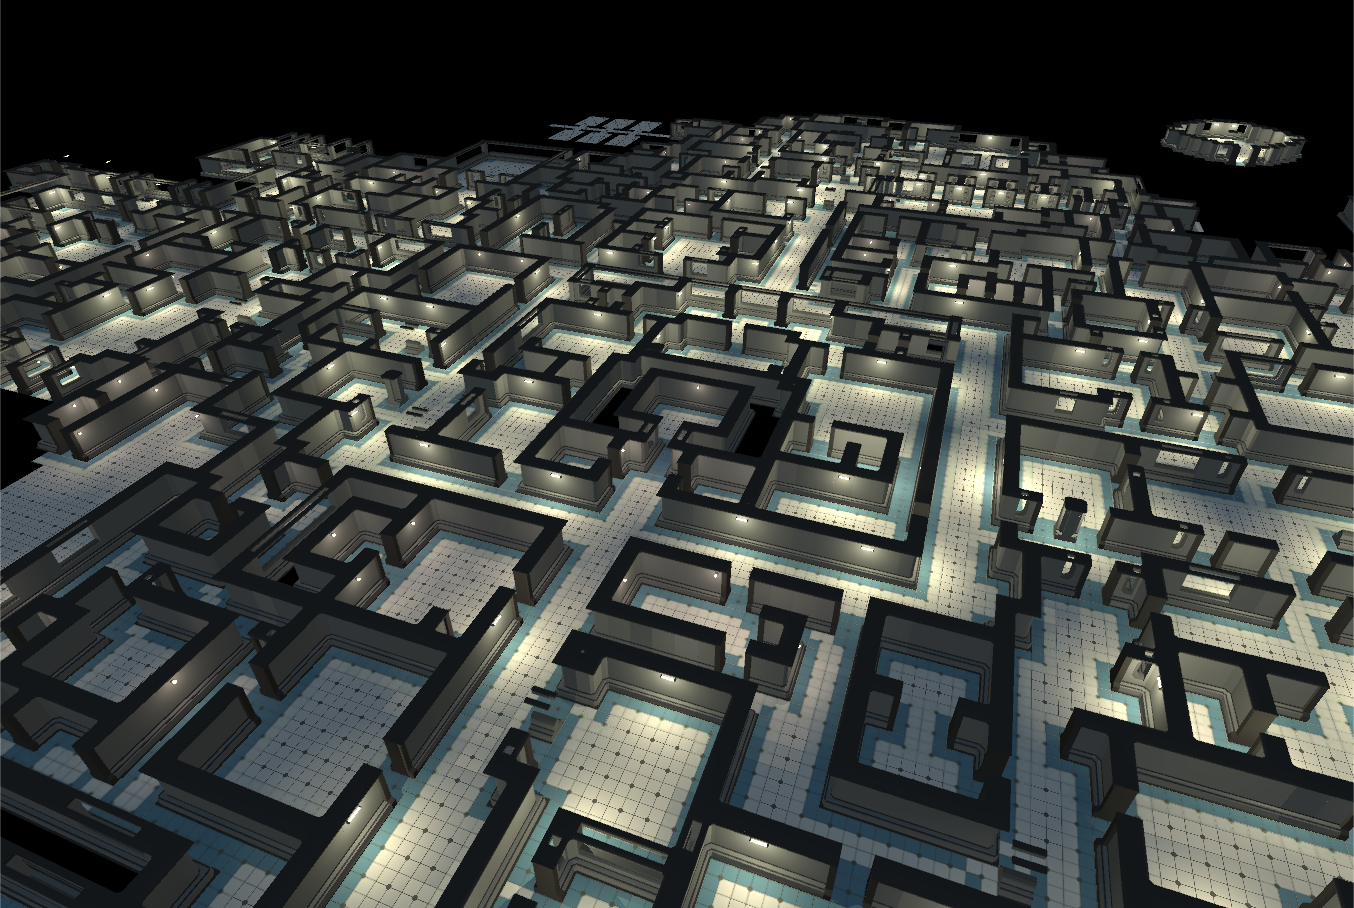
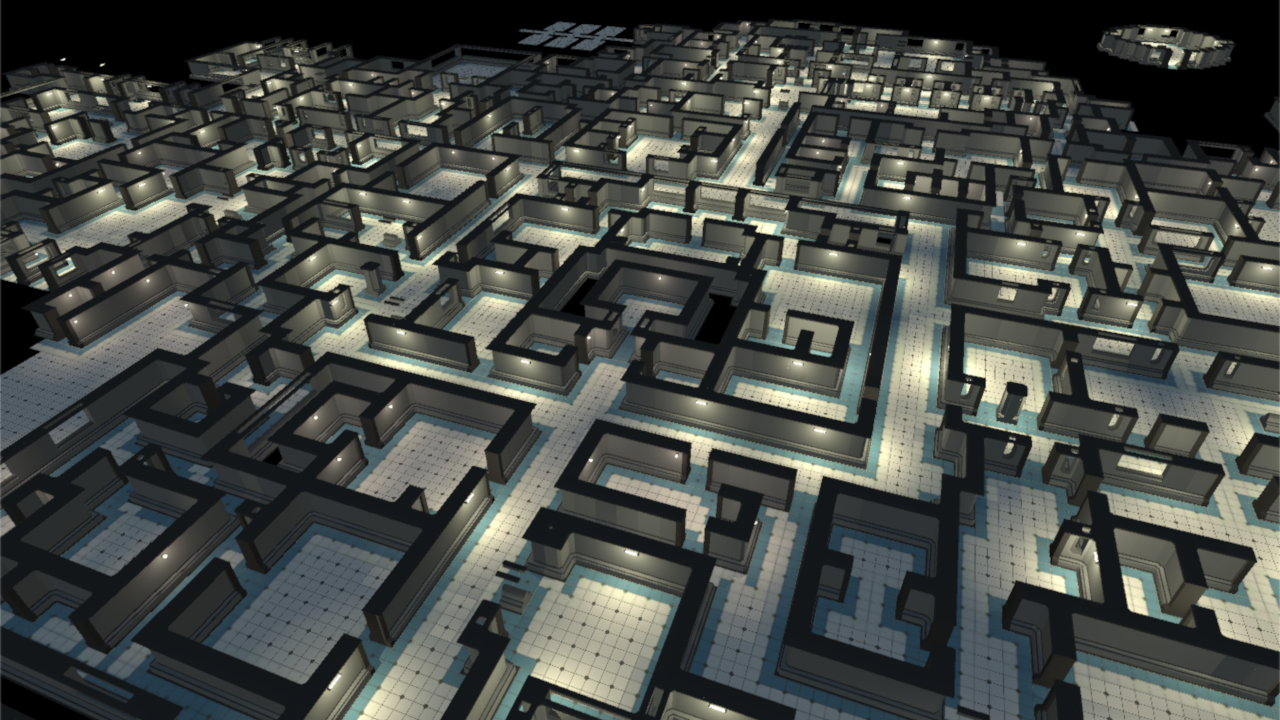
Resize blogpost cover images
for consistance resolution ratio

diff --git a/_posts/2019-04-30-19.04.md b/_posts/2019-04-30-19.04.md
@@ -5,7 +5,7 @@ author: Sunberry
 date:   2019-04-30 15:30:00 +0100
 description: |
     "Despite being a slow month, continued evidence of our accomplishments continues to prove that we are not dead."
-image: /assets/img/posts/19.04.1/SinguloTestThumbnail.PNG
+image: /assets/img/posts/19.04.1/SinguloTest.png
 post_credit: Written by - Sunberry
 ---
 
@@ -18,7 +18,7 @@ Despite being a slow month, continued evidence of our accomplishments continues 
 
 Ol’ Singulo is here, complete with containment fields, courtesy of **PlayerOne**. Experience the horror of a containing an erratic and malevolent force of destruction to power basic utilities.
 
-<video width="580px" autoplay="autoplay" muted loop="loop" poster="{{ site.baseurl }}/assets/img/posts/19.04.1/SinguloTest.jpg">
+<video width="580px" autoplay="autoplay" muted loop="loop" poster="{{ site.baseurl }}/assets/img/posts/19.04.1/SinguloTestThumbnail.png">
   <source src="{{ site.baseurl }}/assets/img/posts/19.04.1/SinguloTest.webm" type="video/webm">
   <source src="{{ site.baseurl }}/assets/img/posts/19.04.1/SinguloTest.mp4" type="video/mp4">
 </video>
